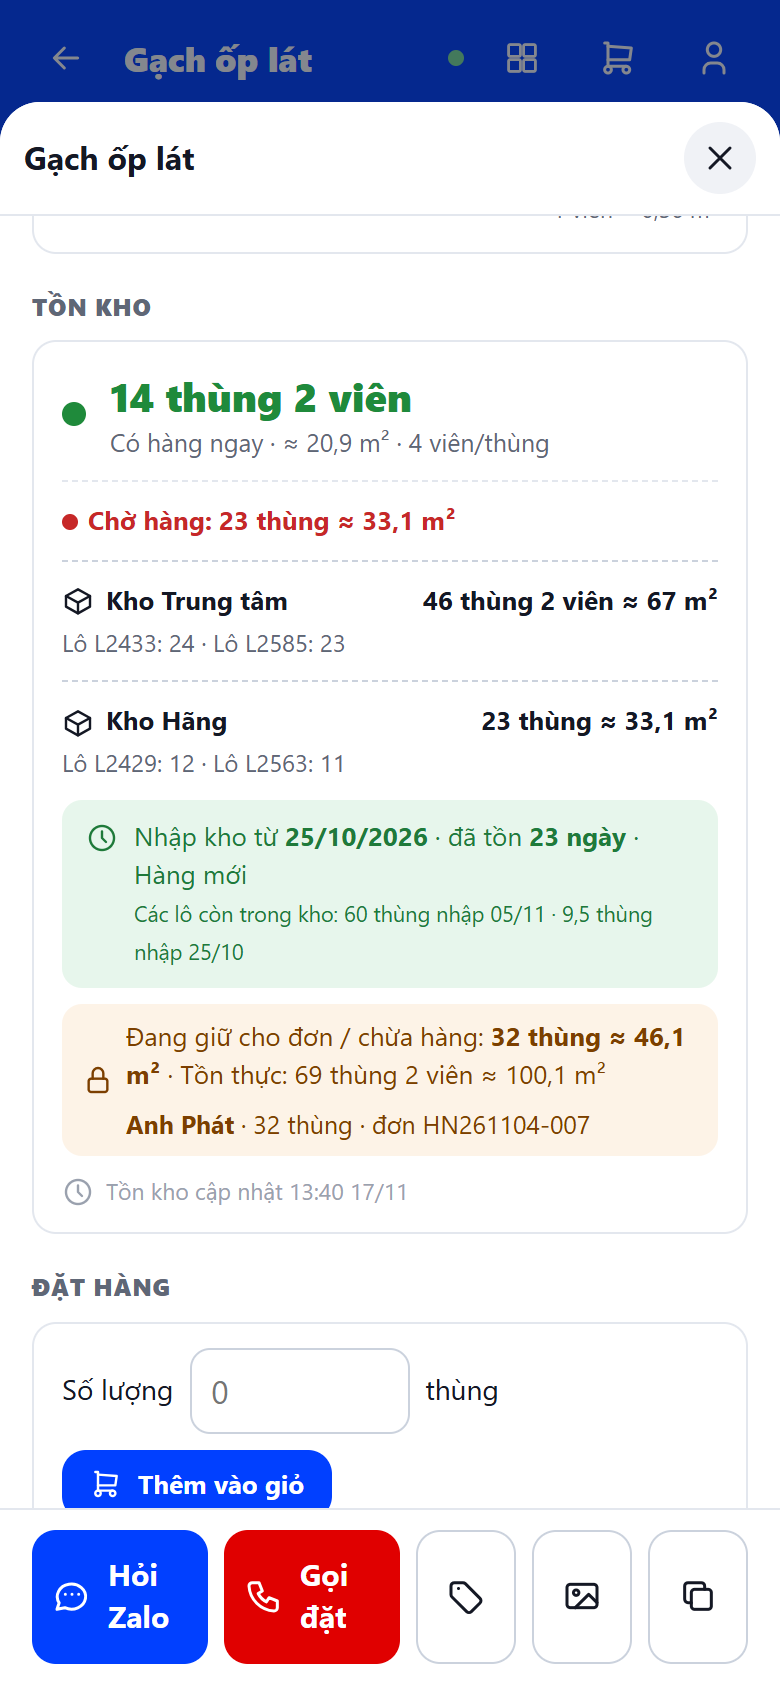
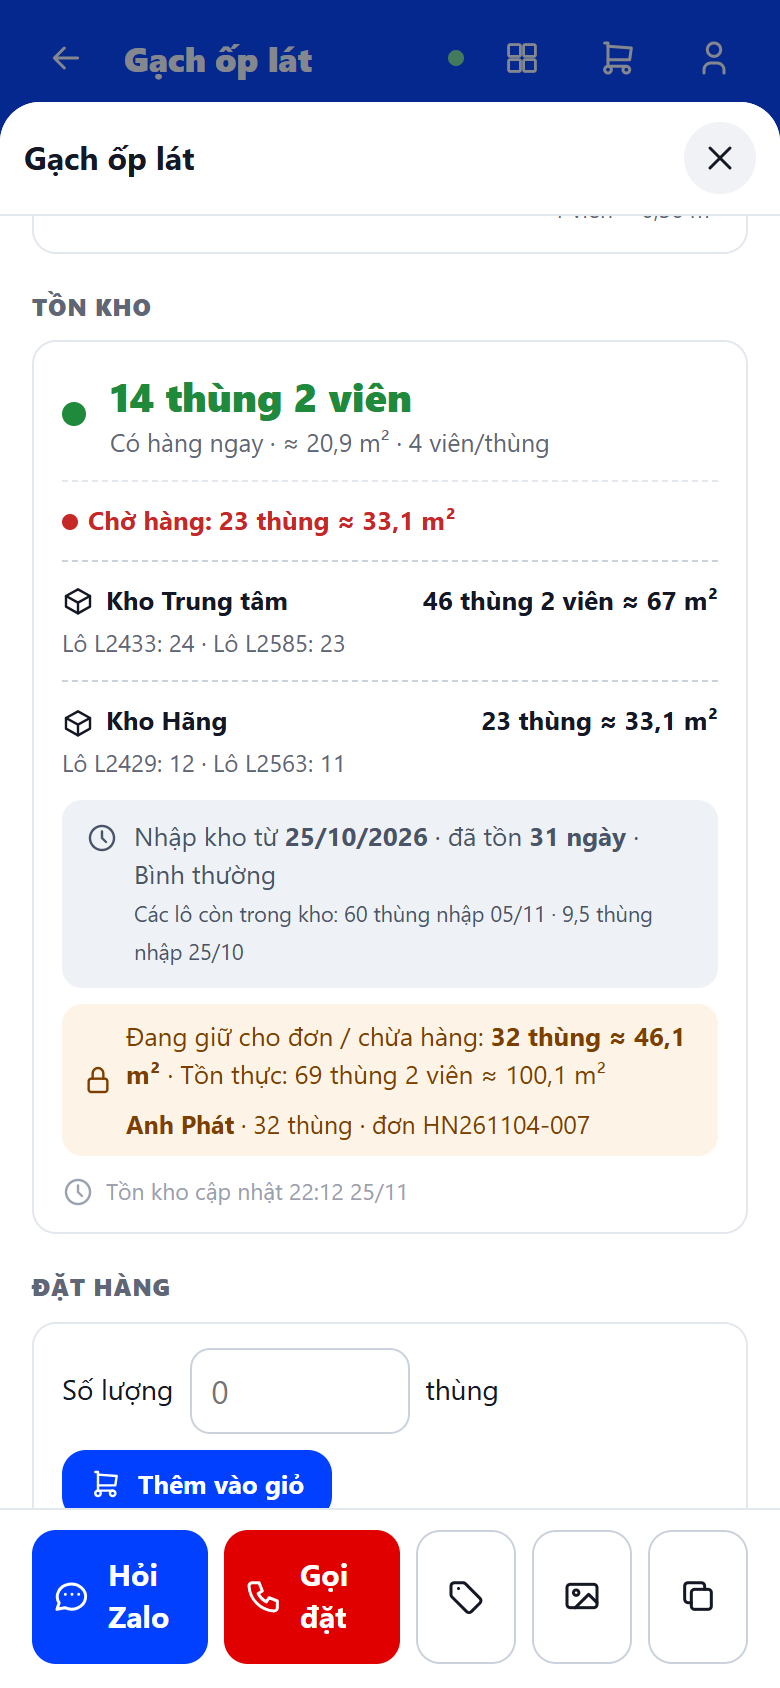
feat: moc tuoi ton moi - nen sale khi ton tren 1 nam (30/180/365 ngay); cap nhat video huong dan

diff --git a/huong-dan/nguon-video-3/canh3.js b/huong-dan/nguon-video-3/canh3.js
@@ -15,13 +15,13 @@ module.exports = [
 
   { phan: 'Phần 2 · Tuổi tồn', tieuDe: 'Nhập trước – bán trước', y: ['Lấy các phiếu mới nhất cộng dồn tới đủ số tồn', 'Lô cũ nhất còn lại = ngày tính tuổi tồn', 'Thiếu phiếu: phần còn lại là hàng cũ', 'Hàng cũ: dùng ngày ghi tay (✎)'], hinh: 'fifo',
     loi: 'Phần hai, cách app tính tuổi tồn: nhập trước, bán trước. Ví dụ trong kho còn hai trăm mười hai thùng. App lấy các phiếu nhập mới nhất cộng dồn: sáu mươi thùng ngày năm tháng mười một, năm mươi thùng ngày hai lăm tháng mười. Phần còn lại là hàng cũ. Lô cũ nhất còn trong kho quyết định số ngày tồn.' },
-  { phan: 'Phần 2 · Tuổi tồn', tieuDe: 'Bảng tuổi tồn kho', y: ['≤ 30 ngày xanh · 31–90 xám', '91–180 cam · trên 180 đỏ – nên sale', 'Lọc theo mức · tìm mã', 'Tồn lâu nhất xếp lên đầu'], hinh: 'b3',
-    loi: 'Bảng tuổi tồn kho nằm ngay bên dưới. Mỗi mã có ngày nhập, số ngày đã tồn và màu: dưới ba mươi ngày màu xanh, tới chín mươi ngày màu xám, tới một trăm tám mươi ngày màu cam, quá một trăm tám mươi ngày màu đỏ, nên bán sale. Bấm các nút phía trên để lọc theo mức, hoặc gõ tìm mã.' },
+  { phan: 'Phần 2 · Tuổi tồn', tieuDe: 'Bảng tuổi tồn kho', y: ['≤ 30 ngày xanh · 31–180 xám', '181–365 cam · trên 1 năm đỏ – nên sale', 'Lọc theo mức · tìm mã', 'Tồn lâu nhất xếp lên đầu'], hinh: 'b3',
+    loi: 'Bảng tuổi tồn kho nằm ngay bên dưới. Mỗi mã có ngày nhập, số ngày đã tồn và màu: dưới ba mươi ngày màu xanh, tới một trăm tám mươi ngày màu xám, tới một năm màu cam, tồn trên một năm màu đỏ, nên bán sale. Bấm các nút phía trên để lọc theo mức, hoặc gõ tìm mã.' },
   { phan: 'Phần 2 · Tuổi tồn', tieuDe: 'Ghi nhanh ngày cho hàng cũ', y: ['Bấm "Chưa có ngày nhập"', 'Chọn ngày → "Lưu"', 'Mã đã có ngày: bấm ✎ để sửa', 'Mỗi mã chỉ cần ghi 1 lần'], hinh: 'b4',
     loi: 'Hàng tồn từ trước, chưa có phiếu nhập, thì bấm nút Chưa có ngày nhập. Mỗi mã có ô chọn ngày, chọn rồi bấm Lưu. Mã đã có ngày thì bấm biểu tượng cây bút để sửa. Mỗi mã chỉ cần ghi một lần, từ nay hàng về thì lập phiếu nhập.' },
 
-  { phan: 'Phần 3 · Bán hàng', tieuDe: 'Nhân viên bán hàng thấy gì', y: ['Nhãn "Tồn … ngày" cho hàng trên 90 ngày', 'Lọc → sắp xếp "Tồn lâu nhất"', 'Mở sản phẩm: ngày nhập từng lô', 'Đại lý, khách lẻ KHÔNG thấy'], hinh: 'a1|a2',
-    loi: 'Phần ba, bên app bán hàng. Nhân viên thấy nhãn tồn bao nhiêu ngày ở những mã tồn trên chín mươi ngày, và có cách sắp xếp Tồn lâu nhất trong mục Lọc. Mở sản phẩm sẽ thấy ngày nhập và các lô còn trong kho. Đại lý và khách lẻ không thấy các thông tin này.' },
+  { phan: 'Phần 3 · Bán hàng', tieuDe: 'Nhân viên bán hàng thấy gì', y: ['Nhãn "Tồn … ngày" cho hàng trên 180 ngày', 'Lọc → sắp xếp "Tồn lâu nhất"', 'Mở sản phẩm: ngày nhập từng lô', 'Đại lý, khách lẻ KHÔNG thấy'], hinh: 'a1|a2',
+    loi: 'Phần ba, bên app bán hàng. Nhân viên thấy nhãn tồn bao nhiêu ngày ở những mã tồn trên một trăm tám mươi ngày, và có cách sắp xếp Tồn lâu nhất trong mục Lọc. Mở sản phẩm sẽ thấy ngày nhập và các lô còn trong kho. Đại lý và khách lẻ không thấy các thông tin này.' },
   { phan: 'Tóm tắt', tieuDe: 'Cách dùng hằng ngày', y: ['Hàng về → lập phiếu nhập', 'Hàng tồn cũ → ghi ngày 1 lần', 'Kế toán vẫn cập nhật số tồn từ phần mềm kho', 'Bán hàng ưu tiên đẩy hàng màu đỏ, cam'], hinh: 'quytrinh',
     loi: 'Tóm lại: hàng về thì lập phiếu nhập. Hàng tồn cũ thì ghi ngày nhập một lần. Kế toán vẫn cập nhật số lượng tồn từ phần mềm kho như trước. Bộ phận bán hàng xem bảng tuổi tồn để ưu tiên đẩy hàng màu đỏ và màu cam. Cảm ơn anh chị đã theo dõi.' }
 ];

diff --git a/quan-tri.js b/quan-tri.js
@@ -95,7 +95,7 @@
   function ngayNgan(iso) { var x = new Date(iso); return isNaN(x) ? '' : ('0' + x.getDate()).slice(-2) + '/' + ('0' + (x.getMonth() + 1)).slice(-2); }
   function conLai(iso) { var h = new Date(iso).getTime() - Date.now(); if (isNaN(h)) return ''; if (h < 0) return 'quá hạn ' + Math.ceil(-h / 86400000) + ' ngày'; var n = Math.floor(h / 86400000); return n < 1 ? 'hết hạn hôm nay' : 'còn ' + n + ' ngày'; }
   function tuoiTon(iso) { if (!iso) return null; var t = new Date(iso + 'T00:00:00'); if (isNaN(t)) return null; var n = Math.max(0, Math.floor((Date.now() - t.getTime()) / 86400000));
-    return { n: n, muc: n <= 30 ? 'moi' : n <= 90 ? 'tb' : n <= 180 ? 'lau' : 'rlau', ten: n <= 30 ? 'Hàng mới' : n <= 90 ? 'Bình thường' : n <= 180 ? 'Tồn lâu' : 'Tồn rất lâu – nên sale', ngay: ('0' + t.getDate()).slice(-2) + '/' + ('0' + (t.getMonth() + 1)).slice(-2) + '/' + t.getFullYear() }; }
+    return { n: n, muc: n <= 30 ? 'moi' : n <= 180 ? 'tb' : n <= 365 ? 'lau' : 'rlau', ten: n <= 30 ? 'Hàng mới' : n <= 180 ? 'Bình thường' : n <= 365 ? 'Tồn lâu' : 'Tồn trên 1 năm – nên sale', ngay: ('0' + t.getDate()).slice(-2) + '/' + ('0' + (t.getMonth() + 1)).slice(-2) + '/' + t.getFullYear() }; }
   function nhanChua(d) {
     if (d.loai !== 'chua') return '';
     var s = '<br><small class="qt-chua' + (hetHan(d) ? ' het' : '') + '">🔒 ' + esc(d.nguoiTao || d.user) + ' chừa ' + d.soNgay + ' ngày' + (d.chuaCho ? ' · cho ' + esc(d.chuaCho) : '') + (d.tt === 'giu' && d.han ? ' · hạn ' + ngayNgan(d.han) + (hetHan(d) ? ' – HẾT HẠN' : '') : '') + '</small>';
@@ -1322,7 +1322,7 @@
   }
 
   // Bảng tuổi tồn: ngày nhập theo phiếu nhập / ghi tay (lưu ở Sheet chính, không mất khi dán lại Sheet Tồn kho).
-  var MUC_TUOI = [['', 'Tất cả'], ['rlau', '> 180 ngày'], ['lau', '91 – 180 ngày'], ['tb', '31 – 90 ngày'], ['moi', '≤ 30 ngày'], ['chua', 'Chưa có ngày nhập']];
+  var MUC_TUOI = [['', 'Tất cả'], ['rlau', '> 1 năm'], ['lau', '181 – 365 ngày'], ['tb', '31 – 180 ngày'], ['moi', '≤ 30 ngày'], ['chua', 'Chưa có ngày nhập']];
   var NGUON_NHAP = { phieu: 'theo phiếu nhập', tay: 'ghi tay', sheet: 'theo Sheet' };
   function veTuoiTon() {
     if (!S.ton) { if (!S.tonDangTai) { S.tonDangTai = 1; taiTon().then(function () { S.tonDangTai = 0; if (S.trang === 'ton') ve(); }); } return '<div class="qt-khung" style="margin-top:14px"><div class="qt-trong">Đang tải tồn kho…</div></div>'; }
@@ -1359,7 +1359,7 @@
       toast(r.msg); S.tuoiSua = ''; S.ton = null; S.pn.ds = null; ve();
     }).catch(function (e) { nut.disabled = false; toast('Chưa ghi được: ' + e.message); });
   }
-  function chuThichTuoi() { return '<div class="qt-tuoi-ct"><span class="tuoi tuoi-moi">≤ 30 ngày: hàng mới</span><span class="tuoi tuoi-tb">31 – 90: bình thường</span><span class="tuoi tuoi-lau">91 – 180: tồn lâu</span><span class="tuoi tuoi-rlau">> 180: tồn rất lâu – nên sale</span></div>'; }
+  function chuThichTuoi() { return '<div class="qt-tuoi-ct"><span class="tuoi tuoi-moi">≤ 30 ngày: hàng mới</span><span class="tuoi tuoi-tb">31 – 180: bình thường</span><span class="tuoi tuoi-lau">181 – 365: tồn lâu</span><span class="tuoi tuoi-rlau">> 1 năm: tồn rất lâu – nên sale</span></div>'; }
 
   // ---------- Gợi ý khi di chuột vào cột biểu đồ ----------
   var tip = document.createElement('div'); tip.className = 'qt-tip'; tip.hidden = true; document.body.appendChild(tip);
@@ -1536,5 +1536,5 @@
     veMenu(); ve(); taiDon();
     clearInterval(batDau._t); batDau._t = setInterval(function () { if (!document.hidden) taiDon(true); }, 60000); // tự làm mới mỗi phút
   }
-  if (DEMO) { var sc = document.createElement('script'); sc.src = 'demo-data.js?v=20'; sc.onload = batDau; document.head.appendChild(sc); } else batDau();
+  if (DEMO) { var sc = document.createElement('script'); sc.src = 'demo-data.js?v=21'; sc.onload = batDau; document.head.appendChild(sc); } else batDau();
 })();

diff --git a/app.js b/app.js
@@ -90,7 +90,7 @@
   }
   function laKhach() { return !S.sess || S.sess.role === 'khachhang'; }
   function tuoiTon(iso) { if (!iso) return null; var t = new Date(iso + 'T00:00:00'); if (isNaN(t)) return null; var n = Math.max(0, Math.floor((Date.now() - t.getTime()) / 86400000));
-    return { n: n, muc: n <= 30 ? 'moi' : n <= 90 ? 'tb' : n <= 180 ? 'lau' : 'rlau', ten: n <= 30 ? 'Hàng mới' : n <= 90 ? 'Bình thường' : n <= 180 ? 'Tồn lâu' : 'Tồn rất lâu – nên sale', ngay: ('0' + t.getDate()).slice(-2) + '/' + ('0' + (t.getMonth() + 1)).slice(-2) + '/' + t.getFullYear() }; }
+    return { n: n, muc: n <= 30 ? 'moi' : n <= 180 ? 'tb' : n <= 365 ? 'lau' : 'rlau', ten: n <= 30 ? 'Hàng mới' : n <= 180 ? 'Bình thường' : n <= 365 ? 'Tồn lâu' : 'Tồn trên 1 năm – nên sale', ngay: ('0' + t.getDate()).slice(-2) + '/' + ('0' + (t.getMonth() + 1)).slice(-2) + '/' + t.getFullYear() }; }
   function laNoiBo() { return !!S.sess && S.sess.role !== 'khachhang'; }
   function sdt() { return String(CFG.LIEN_HE_SDT || '').replace(/[^\d+]/g, ''); }
   // 0939182288 -> "093 918 22 88" (cách ghi trên trang Facebook công ty)
@@ -232,7 +232,7 @@
     if (!d || d.tong <= 0) return '<span class="ton het">' + (laNoiBo() ? 'Hết hàng' : 'Liên hệ') + '</span>';
     var t = tierChinh(d), tu = laNoiBo() ? tuoiTon(d.nhap) : null;
     return '<span class="ton ' + t + '">' + (t === 'nhanh' ? soTon(d.tier.nhanh, d) : NGAN_TIER[t]) + '</span>' +
-      (tu && tu.n > 90 ? '<span class="tuoi tuoi-' + tu.muc + '" title="Nhập kho từ ' + tu.ngay + '">Tồn ' + tu.n + ' ngày</span>' : '');
+      (tu && tu.n > 180 ? '<span class="tuoi tuoi-' + tu.muc + '" title="Nhập kho từ ' + tu.ngay + '">Tồn ' + tu.n + ' ngày</span>' : '');
   }
   // Sắp xếp "tồn nhiều": ưu tiên hàng có ngay, rồi mai có, rồi chờ hàng.
   function ngayTon(p) { var d = S.ton && S.ton[p.ma], t = d && d.tong > 0 ? tuoiTon(d.nhap) : null; return t ? t.n : -1; }
@@ -1527,7 +1527,7 @@
   document.addEventListener('visibilitychange', function () { if (!document.hidden && !DEMO) kiemTraBanMoi(); });
   if (DEMO) {
     var sc = document.createElement('script');
-    sc.src = 'demo-data.js?v=20'; sc.onload = batDau;
+    sc.src = 'demo-data.js?v=21'; sc.onload = batDau;
     sc.onerror = function () { document.body.innerHTML = '<p style="padding:20px">Chưa cấu hình APPS_URL trong config.js.</p>'; };
     document.head.appendChild(sc);
   } else batDau();

diff --git a/lib/so-ton.js b/lib/so-ton.js
@@ -67,7 +67,7 @@
         { v: x.thuc, s: 'so' }, { v: x.giu || '', s: x.giu ? 'soCam' : 'so' }, { v: x.ban, s: x.tt === 'Còn hàng' ? 'soXanh' : x.tt === 'Sắp hết' ? 'soCam' : 'soDo' },
         { v: lam(x.tier.nhanh || 0, 3), s: 'so' }, { v: lam(x.tier.mai || 0, 3), s: 'so' }, { v: lam(x.tier.cho || 0, 3), s: 'so' },
         { v: x.quyM2, s: 'so' }, { v: x.dgia || '', s: 'tien' }, { v: x.dvGia, s: 'giua' }, { v: x.giaTri || '', s: 'tien' }, { v: x.tt, s: sTT },
-        { v: x.nhap ? new Date(x.d.nhap + 'T00:00:00') : '', s: 'ngay' }, { v: x.nhap ? x.nhap : '', s: !x.nhap ? 'giua' : x.nhap > 180 ? 'ttDo' : x.nhap > 90 ? 'ttCam' : x.nhap <= 30 ? 'ttXanh' : 'ttXam' }] });
+        { v: x.nhap ? new Date(x.d.nhap + 'T00:00:00') : '', s: 'ngay' }, { v: x.nhap ? x.nhap : '', s: !x.nhap ? 'giua' : x.nhap > 365 ? 'ttDo' : x.nhap > 180 ? 'ttCam' : x.nhap <= 30 ? 'ttXanh' : 'ttXam' }] });
     });
     var d1 = dong0 + 1, d2 = dong0 + ds.length;
     // SUBTOTAL(109,…) = cộng theo dòng đang hiện -> lọc tới đâu, tổng theo tới đó.
@@ -77,7 +77,7 @@
     t1.gop.push('A' + (d2 + 1) + ':B' + (d2 + 1));
     h1.push(null);
     h1.push({ o: [{ v: 'Ghi chú: Tồn thực = số trong Sheet Tồn kho. Đang giữ = hàng của đơn chờ duyệt / chừa hàng / đã xác nhận / đang giao. Được bán = Tồn thực − Đang giữ. ' +
-      'Giá trị tồn = Tồn thực × giá đại lý (gạch: đổi thùng ra m²). Ngưỡng "Sắp hết": được bán ≤ ' + nguong + '. Số ngày tồn (theo cột Ngày nhập, lô cũ nhất): xanh ≤ 30 · xám 31–90 · cam 91–180 · đỏ > 180 = nên sale.', s: 'ghi' }] });
+      'Giá trị tồn = Tồn thực × giá đại lý (gạch: đổi thùng ra m²). Ngưỡng "Sắp hết": được bán ≤ ' + nguong + '. Số ngày tồn (lô cũ nhất còn trong kho): xanh ≤ 30 · xám 31–180 · cam 181–365 · đỏ > 1 năm = nên sale.', s: 'ghi' }] });
     t1.gop.push('A' + (d2 + 3) + ':T' + (d2 + 3));
     var trang = [{ ten: 'Tổng hợp', mauTab: 'FF0140FF', cot: [6, 18, 46, 18, 14, 10, 9, 10, 11, 10, 9, 9, 9, 11, 13, 8, 15, 14, 12, 11], hang: h1, gop: t1.gop,
       codinh: dong0, loc: 'A' + dong0 + ':T' + d2, inLap: dong0 + ':' + dong0, chanTrang: chanTrang }];

diff --git a/demo-data.js b/demo-data.js
@@ -47,7 +47,7 @@
       var sl = 5 + rnd(120) + (d.vt ? rnd(d.vt) / d.vt : 0), lo = [{ so: 'L' + (2400 + rnd(99)), sl: Math.ceil(sl / 2) }, { so: 'L' + (2500 + rnd(99)), sl: Math.floor(sl / 2) }];
       d.kho.push({ ten: k[0], nhom: k[1], tong: sl, lo: lo }); d.tong += sl; d.tier[k[1]] += sl;
     });
-    var nhap = new Date(Date.now() - (3 + rnd(320)) * 86400000), iso = function (x) { return x.getFullYear() + '-' + ('0' + (x.getMonth() + 1)).slice(-2) + '-' + ('0' + x.getDate()).slice(-2); };
+    var nhap = new Date(Date.now() - (3 + rnd(560)) * 86400000), iso = function (x) { return x.getFullYear() + '-' + ('0' + (x.getMonth() + 1)).slice(-2) + '-' + ('0' + x.getDate()).slice(-2); };
     if (rnd(4) !== 0) NGAY_TAY0[p.ma] = iso(nhap); // ngày ghi tay (Sheet chính), ~1/4 mã chưa có ngày
     if (d.tong) ton[p.ma] = d;
   });

diff --git a/quan-tri.html b/quan-tri.html
@@ -66,7 +66,7 @@
 <script src="lib/qr.js?v=1"></script>
 <script src="lib/tem.js?v=2"></script>
 <script src="lib/xlsx.js?v=1"></script>
-<script src="lib/so-ton.js?v=4"></script>
-<script src="quan-tri.js?v=19"></script>
+<script src="lib/so-ton.js?v=5"></script>
+<script src="quan-tri.js?v=20"></script>
 </body>
 </html>

diff --git a/index.html b/index.html
@@ -55,6 +55,6 @@
 <script src="config.js?v=7"></script>
 <script src="lib/qr.js?v=1"></script>
 <script src="lib/anh-gui.js?v=4"></script>
-<script src="app.js?v=37"></script>
+<script src="app.js?v=38"></script>
 </body>
 </html>
